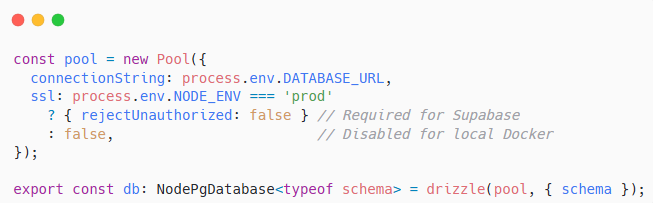
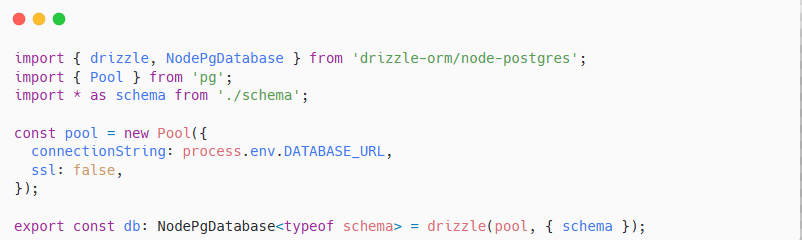
doc(img): add doc prez

diff --git a/backend/src/db/index.ts b/backend/src/db/index.ts
@@ -4,10 +4,7 @@ import * as schema from './schema';
 
 const pool = new Pool({
   connectionString: process.env.DATABASE_URL,
-  ssl: false, // connexion interne via le docker => pas besoin de SSL
-  // process.env.NODE_ENV === 'production'
-  //   ? { rejectUnauthorized: false } // Required for Supabase
-  //   : false, // Disabled for local Docker
+  ssl: false,
 });
 
 export const db: NodePgDatabase<typeof schema> = drizzle(pool, { schema });